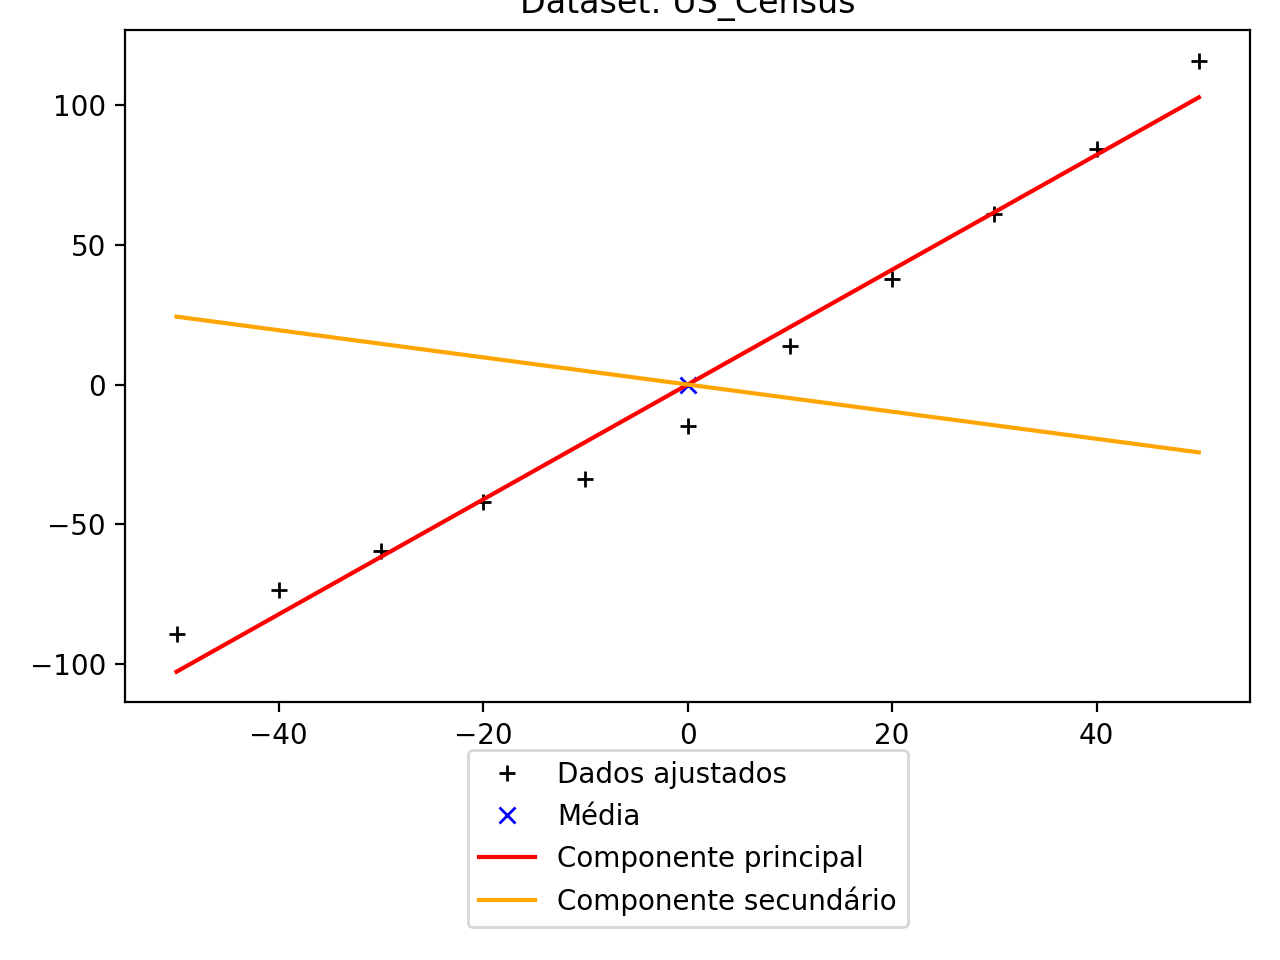
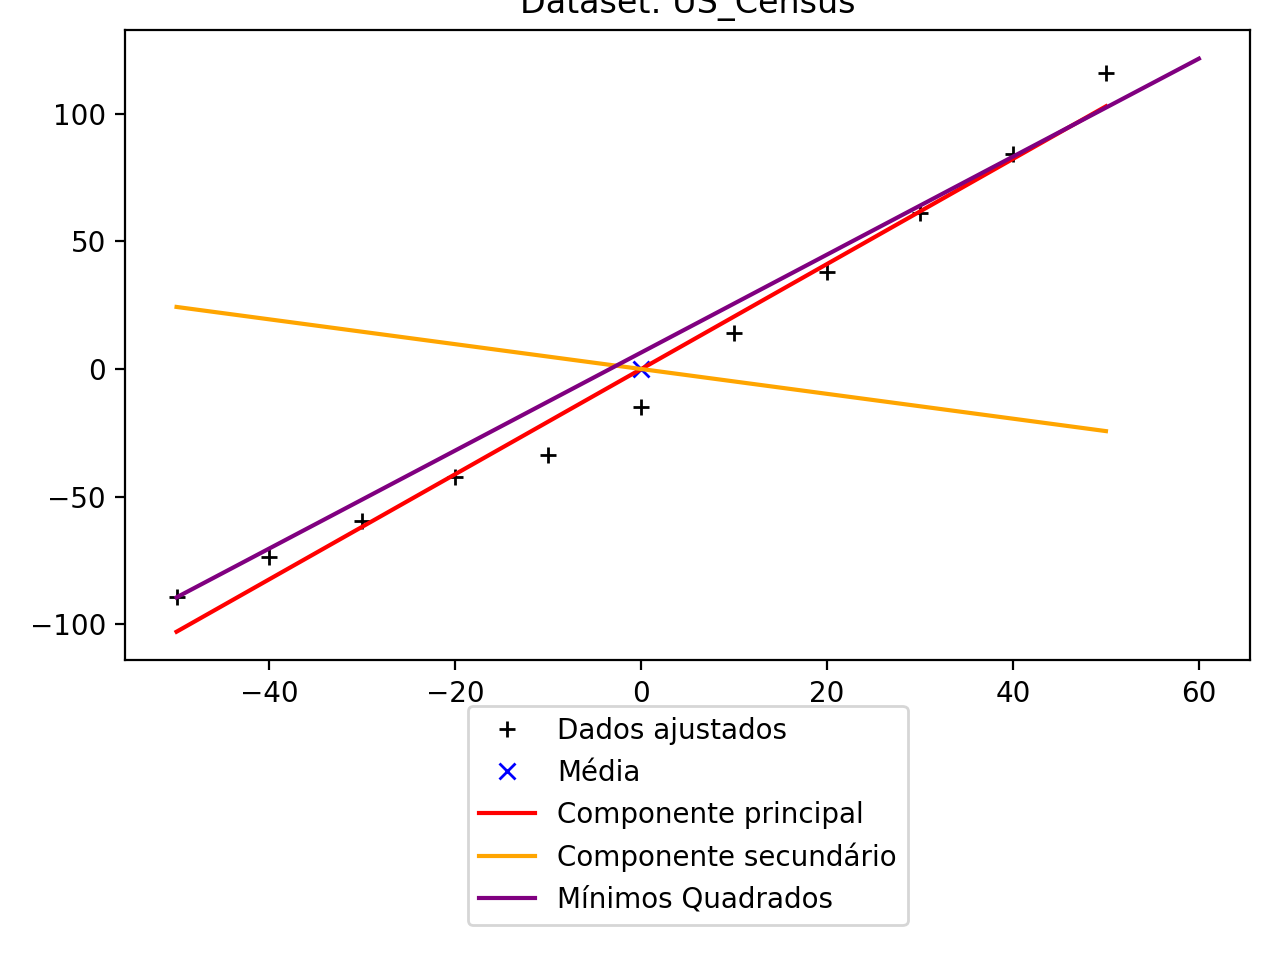
Comparacao com mq

diff --git a/main.py b/main.py
@@ -5,6 +5,12 @@ import matplotlib.pyplot as plt
 
 
 def load_file(filename):
+    """
+    Carrega o dataset para a memória
+        :param filename: nome do arquivo
+
+        :return: matriz x e y
+    """
     x_input = []
     y_input = []
     f = open("data/" + filename + ".txt")
@@ -25,19 +31,43 @@ def load_file(filename):
 
 
 def subtract_mean(x, y):
-    x_mean = sum(x) / len(x)
+    """
+    Subtrair a média de todo o dataset
+        :param x: entrada x
+        :param y: entrada y
+
+        :return: matriz ajustada
+    """
+    if isinstance(x[0], list):
+        x_zipped = list(zip(*x))
+        x1_mean = sum(x_zipped[0]) / len(x_zipped[0])
+        x2_mean = sum(x_zipped[1]) / len(x_zipped[1])
+    else:
+        x_mean = sum(x) / len(x)
+
     y_mean = sum(y) / len(y)
     x_adjusted = []
     y_adjusted = []
 
     for i in range(len(x)):
-        x_adjusted.append(x[i] - x_mean)
+        if isinstance(x[0], list):
+            x_adjusted.append([x[i][0] - x1_mean, x[i][1] - x2_mean])
+        else:
+            x_adjusted.append(x[i] - x_mean)
+
         y_adjusted.append(y[i] - y_mean)
 
     return x_adjusted, y_adjusted
 
 
 def covariance(a, b):
+    """
+    Calcula a covariancia entre dois pontos
+        :param a: ponto a
+        :param b: ponto b
+
+        :return: covariancia entre a e b
+    """
     covariance_result = 0
 
     for i in range(len(a)):
@@ -47,91 +77,40 @@ def covariance(a, b):
 
 
 def covariance_matrix(x, y):
+    """
+    Calcula matriz de covariancia
+        :param x: entrada x
+        :param y: entrada y
+
+        :return: matriz de covariancia
+    """
     cov_matrix = []
-    cov_x_x = covariance(x, x)
-    cov_x_y = covariance(x, y)
-    cov_matrix.append([cov_x_x, cov_x_y])
-    cov_y_x = covariance(y, x)
-    cov_y_y = covariance(y, y)
-    cov_matrix.append([cov_y_x, cov_y_y])
+
+    if not isinstance(x[0], list):
+        cov_x_x = covariance(x, x)
+        cov_x_y = covariance(x, y)
+        cov_matrix.append([cov_x_x, cov_x_y])
+        cov_y_x = covariance(y, x)
+        cov_y_y = covariance(y, y)
+        cov_matrix.append([cov_y_x, cov_y_y])
+    else:
+        x_zipped = list(zip(*x))
+        x1 = x_zipped[0]
+        x2 = x_zipped[1]
+        cov_x_x = covariance(x1, x1)
+        cov_x_y = covariance(x1, y)
+        cov_x_x2 = covariance(x1, x2)
+        cov_matrix.append([cov_x_x, cov_x_y, cov_x_x2])
+        cov_y_x = covariance(y, x1)
+        cov_y_y = covariance(y, y)
+        cov_y_x2 = covariance(y, x2)
+        cov_matrix.append([cov_y_x, cov_y_y, cov_y_x2])
+        cov_x2_x = covariance(x2, x1)
+        cov_x2_y = covariance(x2, y)
+        cov_x2_x2 = covariance(x2, x2)
+        cov_matrix.append([cov_x2_x, cov_x2_y, cov_x2_x2])
 
     return cov_matrix
-
-
-def matrix_empty(rows, cols):
-    """
-    Cria uma matriz vazia
-        :param rows: número de linhas da matriz
-        :param cols: número de colunas da matriz
-
-        :return: matriz preenchida com 0.0
-    """
-    M = []
-    while len(M) < rows:
-        M.append([])
-        while len(M[-1]) < cols:
-            M[-1].append(0.0)
-
-    return M
-
-
-def matrix_transpose(m):
-    """
-    Retorna a matriz transposta
-        :param m: matriz a ser transposta
-
-        :return: resultado da matriz de entrada transposta
-    """
-    if not isinstance(m[0], list):
-        m = [m]
-
-    rows = len(m)
-    cols = len(m[0])
-
-    mt = matrix_empty(cols, rows)
-
-    for i in range(rows):
-        for j in range(cols):
-            mt[j][i] = m[i][j]
-
-    return mt
-
-
-def matrix_multiply(a, b):
-    """
-    Retorna o produto da multiplicação da matriz a com b
-        :param a: primeira matriz
-        :param b: segunda matriz
-
-        :return: matriz resultante
-    """
-    rows_a = len(a)
-    cols_a = len(a[0])
-    rows_b = len(b)
-    cols_b = len(b[0])
-    if cols_a != rows_b:
-        raise ArithmeticError('O número de colunas da matriz a deve ser igual ao número de linhas da matriz b.')
-
-    result_matrix = matrix_empty(rows_a, cols_b)
-    for i in range(rows_a):
-        for j in range(cols_b):
-            total = 0
-            for ii in range(cols_a):
-                total += a[i][ii] * b[ii][j]
-            result_matrix[i][j] = total
-
-    return result_matrix
-
-
-def vector_to_matrix(vector):
-    if isinstance(vector[0], list):
-        raise ArithmeticError('Não é um vetor')
-
-    matrix = matrix_empty(len(vector), 1)
-    for i in range(len(vector)):
-        matrix[i][0] = vector[i]
-
-    return matrix
 
 
 def calc_pca(dataset):
@@ -162,16 +141,6 @@ def calc_pca(dataset):
     gradient_2 = feature_vector_2[1] / feature_vector_2[0]
     logging.info(feature_vector)
 
-    logging.info("*******VALORES FINAIS*******")
-    # feature_vector = vector_to_matrix(feature_vector)
-    # feature_vector_t = matrix_transpose(feature_vector)
-    # input_x_y = [list(a) for a in zip(x_minus_mean, y_minus_mean)]
-    # input_t = matrix_transpose(input_x_y)
-    # logging.info(feature_vector_t)
-    # logging.info(input_t)
-    # result = matrix_multiply(feature_vector_t, input_t)
-    # logging.info(result)
-
     logging.info("*******PLOT*******")
     plt.plot(x_minus_mean, y_minus_mean, '+', color='black', label='Dados ajustados')
     plt.plot(0, 0, 'x', color='blue', label='Média')
@@ -185,18 +154,24 @@ def calc_pca(dataset):
     pca_2_y = [min_x * gradient_2, 0, max_x * gradient_2]
     plt.plot(pca_2_x, pca_2_y, color='orange', label='Componente secundário')
 
+    if dataset == "US_Census":
+        x_mq = 2010 - (sum(x) / len(x))
+        y_mq = 286.9128 - (sum(y) / len(y))
+        plt.plot([x_minus_mean[0], x_mq], [y_minus_mean[0], y_mq], color='purple', label='Mínimos Quadrados')
+
+    if dataset == "alpswater":
+        x_mq = 31.06 - (sum(x) / len(x))
+        y_mq = 214.3658 - (sum(y) / len(y))
+        plt.plot([x_minus_mean[0], x_mq], [y_minus_mean[0], y_mq], color='purple', label='Mínimos Quadrados')
+
     plt.legend(loc='upper center', bbox_to_anchor=(0.5, -0.05))
     plt.tight_layout()
     plt.title("Dataset: " + dataset)
     plt.show()
-    # plt.savefig("./images/" + dataset + ".png")
 
 
 logging.basicConfig(stream=sys.stderr, level=logging.INFO)
-calc_pca("dummy")
 
 calc_pca("alpswater")
 
 calc_pca("US_Census")
-
-calc_pca("economic_growth")
